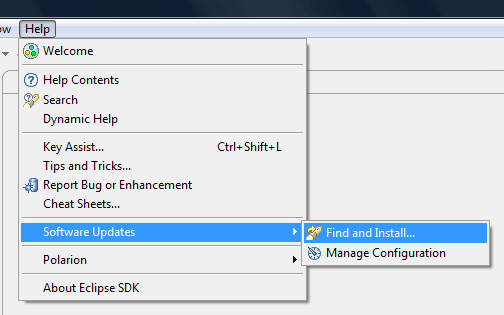
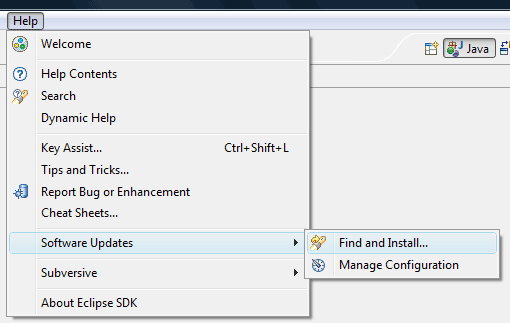
Add "Migrate to Eclipse" action description into help changing about.ini copyright string

Changed region(s): [[0.0, 0.0, 1.0, 1.0]]

diff --git a/org.eclipse.team.svn.help/gettingStarted/aboutSubversive/install.html b/org.eclipse.team.svn.help/gettingStarted/aboutSubversive/install.html
@@ -18,7 +18,7 @@
 		</tr>
 	</table>
 <h3>Subversive installation instructions</h3>
-	<p>Subversive can be simply installed from within Eclipse using update manager. All what the user should do is just point update manager to the remote or local update site. To install Subversive:</p>
+	<p>Subversive can be simply installed from within Eclipse using update manager. All what the user should do is just point update manager to the remote or local update site. Please note that if you have the older Polarion version of Subvesive installed and you want to save your workspace settings related to SVN you shouldn't uninstall this version before installing the Eclipse one. To install Subversive:</p>
 	<ol>
 		<li>
 			Start Eclipse and select menu item <i>'Help > Software Updates > Find and Install...'</i>
@@ -49,7 +49,7 @@
 			On the <i>'New Update Site'</i> dialog enter the name of clients' update site and the URL. Use following values:
 			<ul>
 				<li>
-					<b>Name:</b> Subversive Supported Clients
+					<b>Name:</b> Subversive Clients
 				</li>
 				<li>
 					<b>URL:</b> <a href="http://www.polarion.org/projects/subversive/download/eclipse/update-site/">http://www.polarion.org/projects/subversive/download/eclipse/update-site/</a>
@@ -108,7 +108,8 @@
 			<br/><br/><img border="0" src="../../images/restart_dialog.png" alt="Restart dialog"/><br/><br/>
 		</li>
 		<li>
-			After Eclipse restart you are able to start using Subversive.<br/><br/>
+			After Eclipse restart you are able to start using Subversive. So if you have had the older Polarion version of Subversive plug-in installed and you haven't uninstalled it, please click on <i>'Help > Subversive > Migrate Projects and Settings'</i> menu item for all workspaces which SVN settings should be saved.<br/><br/>
+			<img border="0" src="../../images/migrate.png" alt="Migrate Projects and Settings"/><br/><br/>
 		</li>
 		<li> You can find Subversive perspective and views in correspondent dialogs, activated by menu items <i>'Window > Open Perspective > Other...'</i> and <i>'Window > Show View > Other...'</i>.
 			<br/><br/>

diff --git a/org.eclipse.team.svn.ui/src/org/eclipse/team/svn/ui/debugmail/MigrateToEclipse.java b/org.eclipse.team.svn.ui/src/org/eclipse/team/svn/ui/debugmail/MigrateToEclipse.java
@@ -41,6 +41,7 @@ import org.eclipse.team.svn.core.operation.local.AbstractWorkingCopyOperation;
 import org.eclipse.team.svn.core.operation.local.RefreshResourcesOperation;
 import org.eclipse.team.svn.core.resource.IResourceProvider;
 import org.eclipse.team.svn.core.svnstorage.SVNRemoteStorage;
+import org.eclipse.team.svn.ui.operation.RefreshRepositoryLocationsOperation;
 import org.eclipse.team.svn.ui.utility.UIMonitorUtility;
 
 /**
@@ -67,6 +68,7 @@ public class MigrateToEclipse extends AbstractMainMenuAction {
 		RemapProjects remapOp = new RemapProjects();
 		op.add(remapOp);
 		op.add(new RefreshResourcesOperation(remapOp, IResource.DEPTH_ONE, RefreshResourcesOperation.REFRESH_CACHE));
+		op.add(new RefreshRepositoryLocationsOperation(false));
 		UIMonitorUtility.doTaskNowDefault(op, false);
 	}
 
